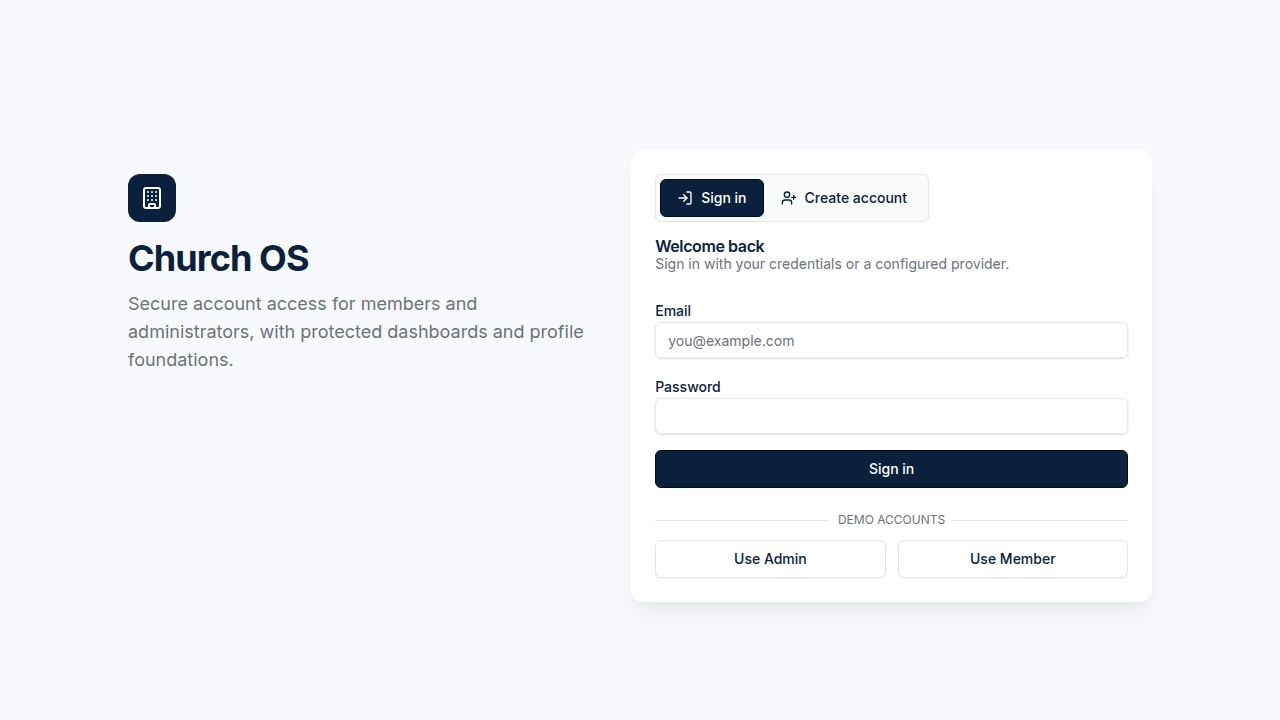
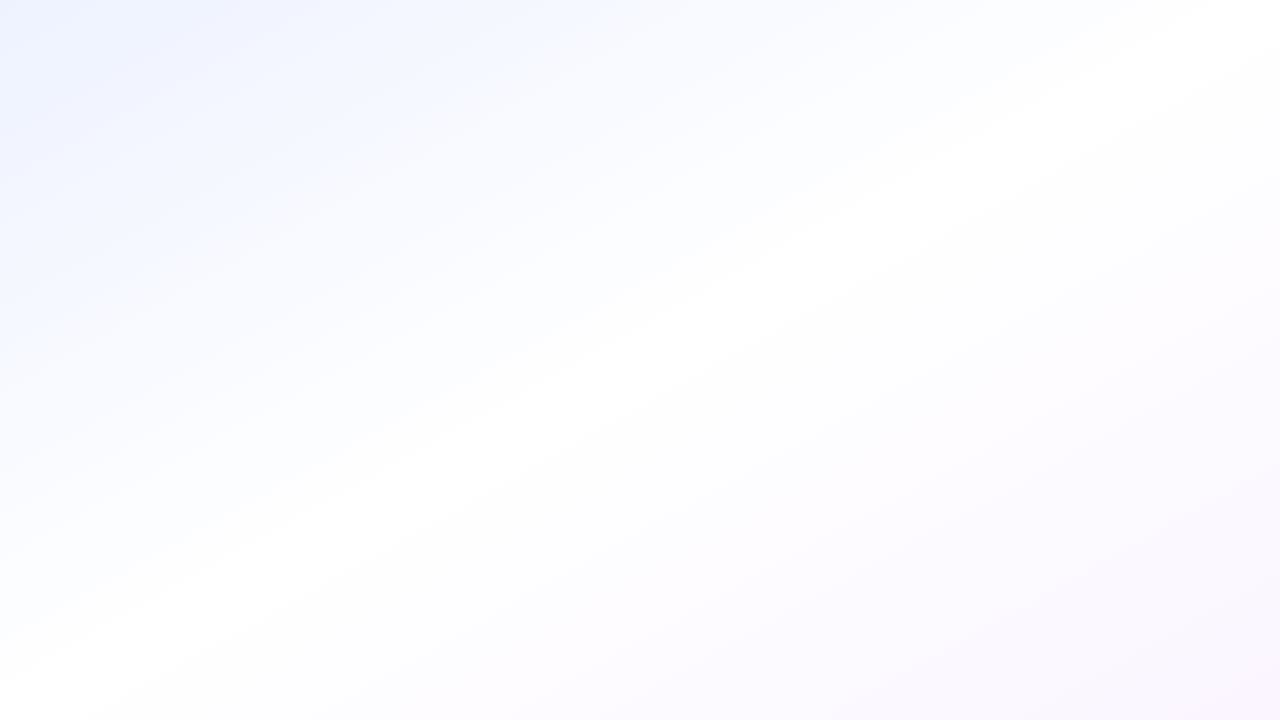
feat: update admin invite-accept page for Clerk-era flow
Task: Complete the admin invite flow for the Clerk era (#4)

## What changed
- Rewrote `artifacts/church-os/src/pages/admin/invite-accept.tsx` to remove
  the old password-creation form (session-based era) and replace it with a
  Clerk-aware flow:
  - Uses `useUser()` from `@user/react` to detect sign-in state
  - Not signed in → blue info banner prompting the user to sign in or create an
    account with the invited email, with a link to `/sign-in`
  - Signed in with wrong email → destructive error panel showing which email is
    active vs. which email was invited
  - Signed in with correct email → "Accept Invite" button (no password field)
  - On success → redirects to `/admin` (from `redirectTo` in API response)
- No backend changes were needed; `POST /admin/invitations/accept/:token` was
  already updated to require a pre-existing Clerk account and reject the request
  if no local DB user matches the invite email

## No deviations
Implementation matches the task spec exactly.

## Typecheck
`pnpm --filter @user/church-os run typecheck` passes clean (0 errors).

Replit-Task-Id: c23d2fd1-e0fe-4673-bc27-fb9956226617

diff --git a/artifacts/church-os/src/pages/admin/invite-accept.tsx b/artifacts/church-os/src/pages/admin/invite-accept.tsx
@@ -1,11 +1,9 @@
-import { useState } from "react";
-import { useLocation, useRoute } from "wouter";
+import { useLocation, useRoute, Link } from "wouter";
 import { useMutation, useQuery } from "@tanstack/react-query";
+import { useUser } from "@clerk/react";
 import { Badge } from "@/components/ui/badge";
 import { Button } from "@/components/ui/button";
 import { Card, CardContent, CardDescription, CardHeader, CardTitle } from "@/components/ui/card";
-import { Input } from "@/components/ui/input";
-import { Label } from "@/components/ui/label";
 import { useToast } from "@/hooks/use-toast";
 
 type InviteDetails = {
@@ -33,7 +31,8 @@ export default function AdminInviteAccept() {
   const [, setLocation] = useLocation();
   const { toast } = useToast();
   const token = params?.token ?? "";
-  const [password, setPassword] = useState("");
+
+  const { isLoaded: clerkLoaded, isSignedIn, user: clerkUser } = useUser();
 
   const inviteQuery = useQuery({
     queryKey: ["admin-invite", token],
@@ -42,16 +41,27 @@ export default function AdminInviteAccept() {
   });
 
   const acceptInvite = useMutation({
-    mutationFn: () => apiJson<{ redirectTo: string }>(`/admin/invitations/accept/${token}`, {
-      method: "POST",
-      body: JSON.stringify({ password }),
-    }),
+    mutationFn: () =>
+      apiJson<{ redirectTo: string }>(`/admin/invitations/accept/${token}`, {
+        method: "POST",
+        body: JSON.stringify({}),
+      }),
     onSuccess: (data) => {
-      toast({ title: "Admin account ready" });
+      toast({ title: "Admin account activated" });
       setLocation(data.redirectTo);
     },
-    onError: (error) => toast({ title: "Invite could not be accepted", description: error.message, variant: "destructive" }),
+    onError: (error) =>
+      toast({ title: "Invite could not be accepted", description: error.message, variant: "destructive" }),
   });
+
+  const invitedEmail = inviteQuery.data?.email;
+  const clerkEmail = clerkUser?.primaryEmailAddress?.emailAddress;
+  const emailMismatch =
+    clerkLoaded && isSignedIn && invitedEmail && clerkEmail &&
+    clerkEmail.toLowerCase() !== invitedEmail.toLowerCase();
+  const emailMatch =
+    clerkLoaded && isSignedIn && invitedEmail && clerkEmail &&
+    clerkEmail.toLowerCase() === invitedEmail.toLowerCase();
 
   return (
     <main className="flex min-h-screen items-center justify-center bg-muted/30 p-4">
@@ -64,7 +74,9 @@ export default function AdminInviteAccept() {
           </CardDescription>
         </CardHeader>
         <CardContent className="space-y-5">
-          {inviteQuery.isLoading && <p className="text-sm text-muted-foreground">Loading invite...</p>}
+          {inviteQuery.isLoading && (
+            <p className="text-sm text-muted-foreground">Loading invite...</p>
+          )}
           {inviteQuery.error && (
             <div className="rounded-md border border-destructive/30 bg-destructive/5 p-3 text-sm text-destructive">
               {inviteQuery.error.message}
@@ -79,28 +91,43 @@ export default function AdminInviteAccept() {
                 <Info label="Ministry / Department" value={inviteQuery.data.assignedMinistry ?? "Not assigned"} />
                 <Info label="Expires" value={new Date(inviteQuery.data.expiresAt).toLocaleString()} />
               </div>
-              <form
-                className="space-y-4"
-                onSubmit={(event) => {
-                  event.preventDefault();
-                  acceptInvite.mutate();
-                }}
-              >
-                <div className="space-y-2">
-                  <Label htmlFor="password">Create Password</Label>
-                  <Input
-                    id="password"
-                    type="password"
-                    minLength={8}
-                    value={password}
-                    onChange={(event) => setPassword(event.target.value)}
-                    required
-                  />
+
+              {!clerkLoaded && (
+                <p className="text-sm text-muted-foreground">Checking sign-in status...</p>
+              )}
+
+              {clerkLoaded && !isSignedIn && (
+                <div className="rounded-md border border-blue-200 bg-blue-50 p-4 space-y-3">
+                  <p className="text-sm font-medium text-blue-900">Sign in first to accept this invite</p>
+                  <p className="text-sm text-blue-700">
+                    You must be signed into Church OS with{" "}
+                    <span className="font-semibold">{inviteQuery.data.email}</span> before you can accept this invitation.
+                  </p>
+                  <Link href={`/sign-in?redirect_url=${encodeURIComponent(window.location.pathname)}`}>
+                    <Button className="w-full">Sign in or create an account</Button>
+                  </Link>
                 </div>
-                <Button className="w-full" type="submit" disabled={acceptInvite.isPending}>
-                  Accept Invite
+              )}
+
+              {emailMismatch && (
+                <div className="rounded-md border border-destructive/30 bg-destructive/5 p-4 space-y-2">
+                  <p className="text-sm font-medium text-destructive">Wrong account signed in</p>
+                  <p className="text-sm text-destructive/80">
+                    You're signed in as <span className="font-semibold">{clerkEmail}</span>, but this invite is for{" "}
+                    <span className="font-semibold">{invitedEmail}</span>. Please sign out and sign in with the invited email address.
+                  </p>
+                </div>
+              )}
+
+              {emailMatch && (
+                <Button
+                  className="w-full"
+                  onClick={() => acceptInvite.mutate()}
+                  disabled={acceptInvite.isPending}
+                >
+                  {acceptInvite.isPending ? "Accepting..." : "Accept Invite"}
                 </Button>
-              </form>
+              )}
             </>
           )}
         </CardContent>